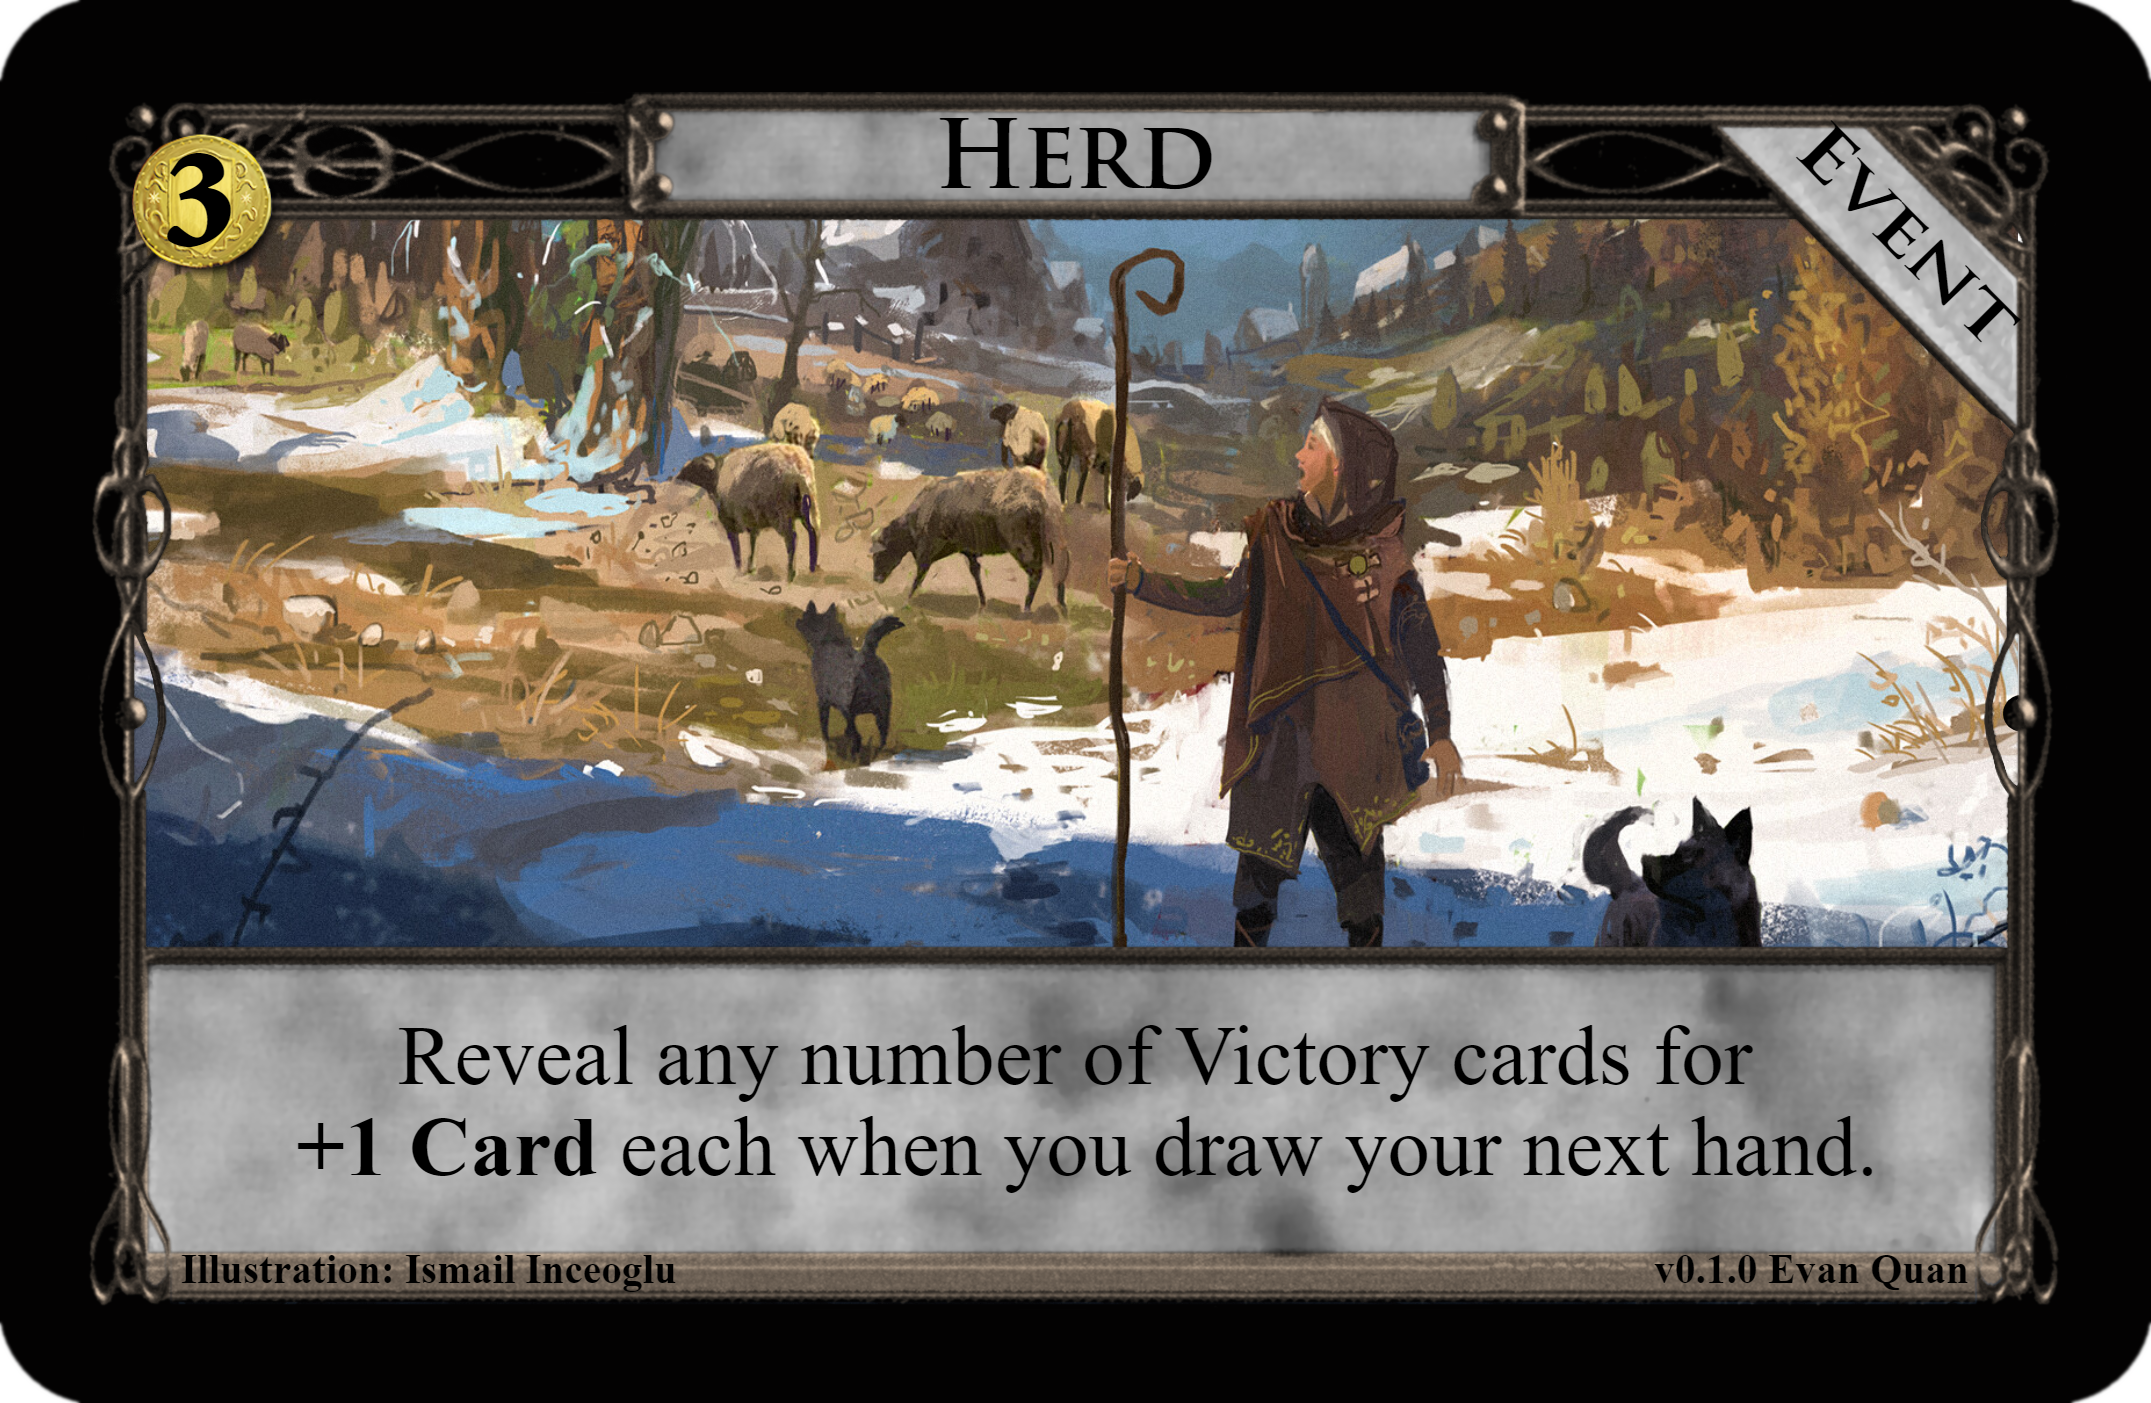
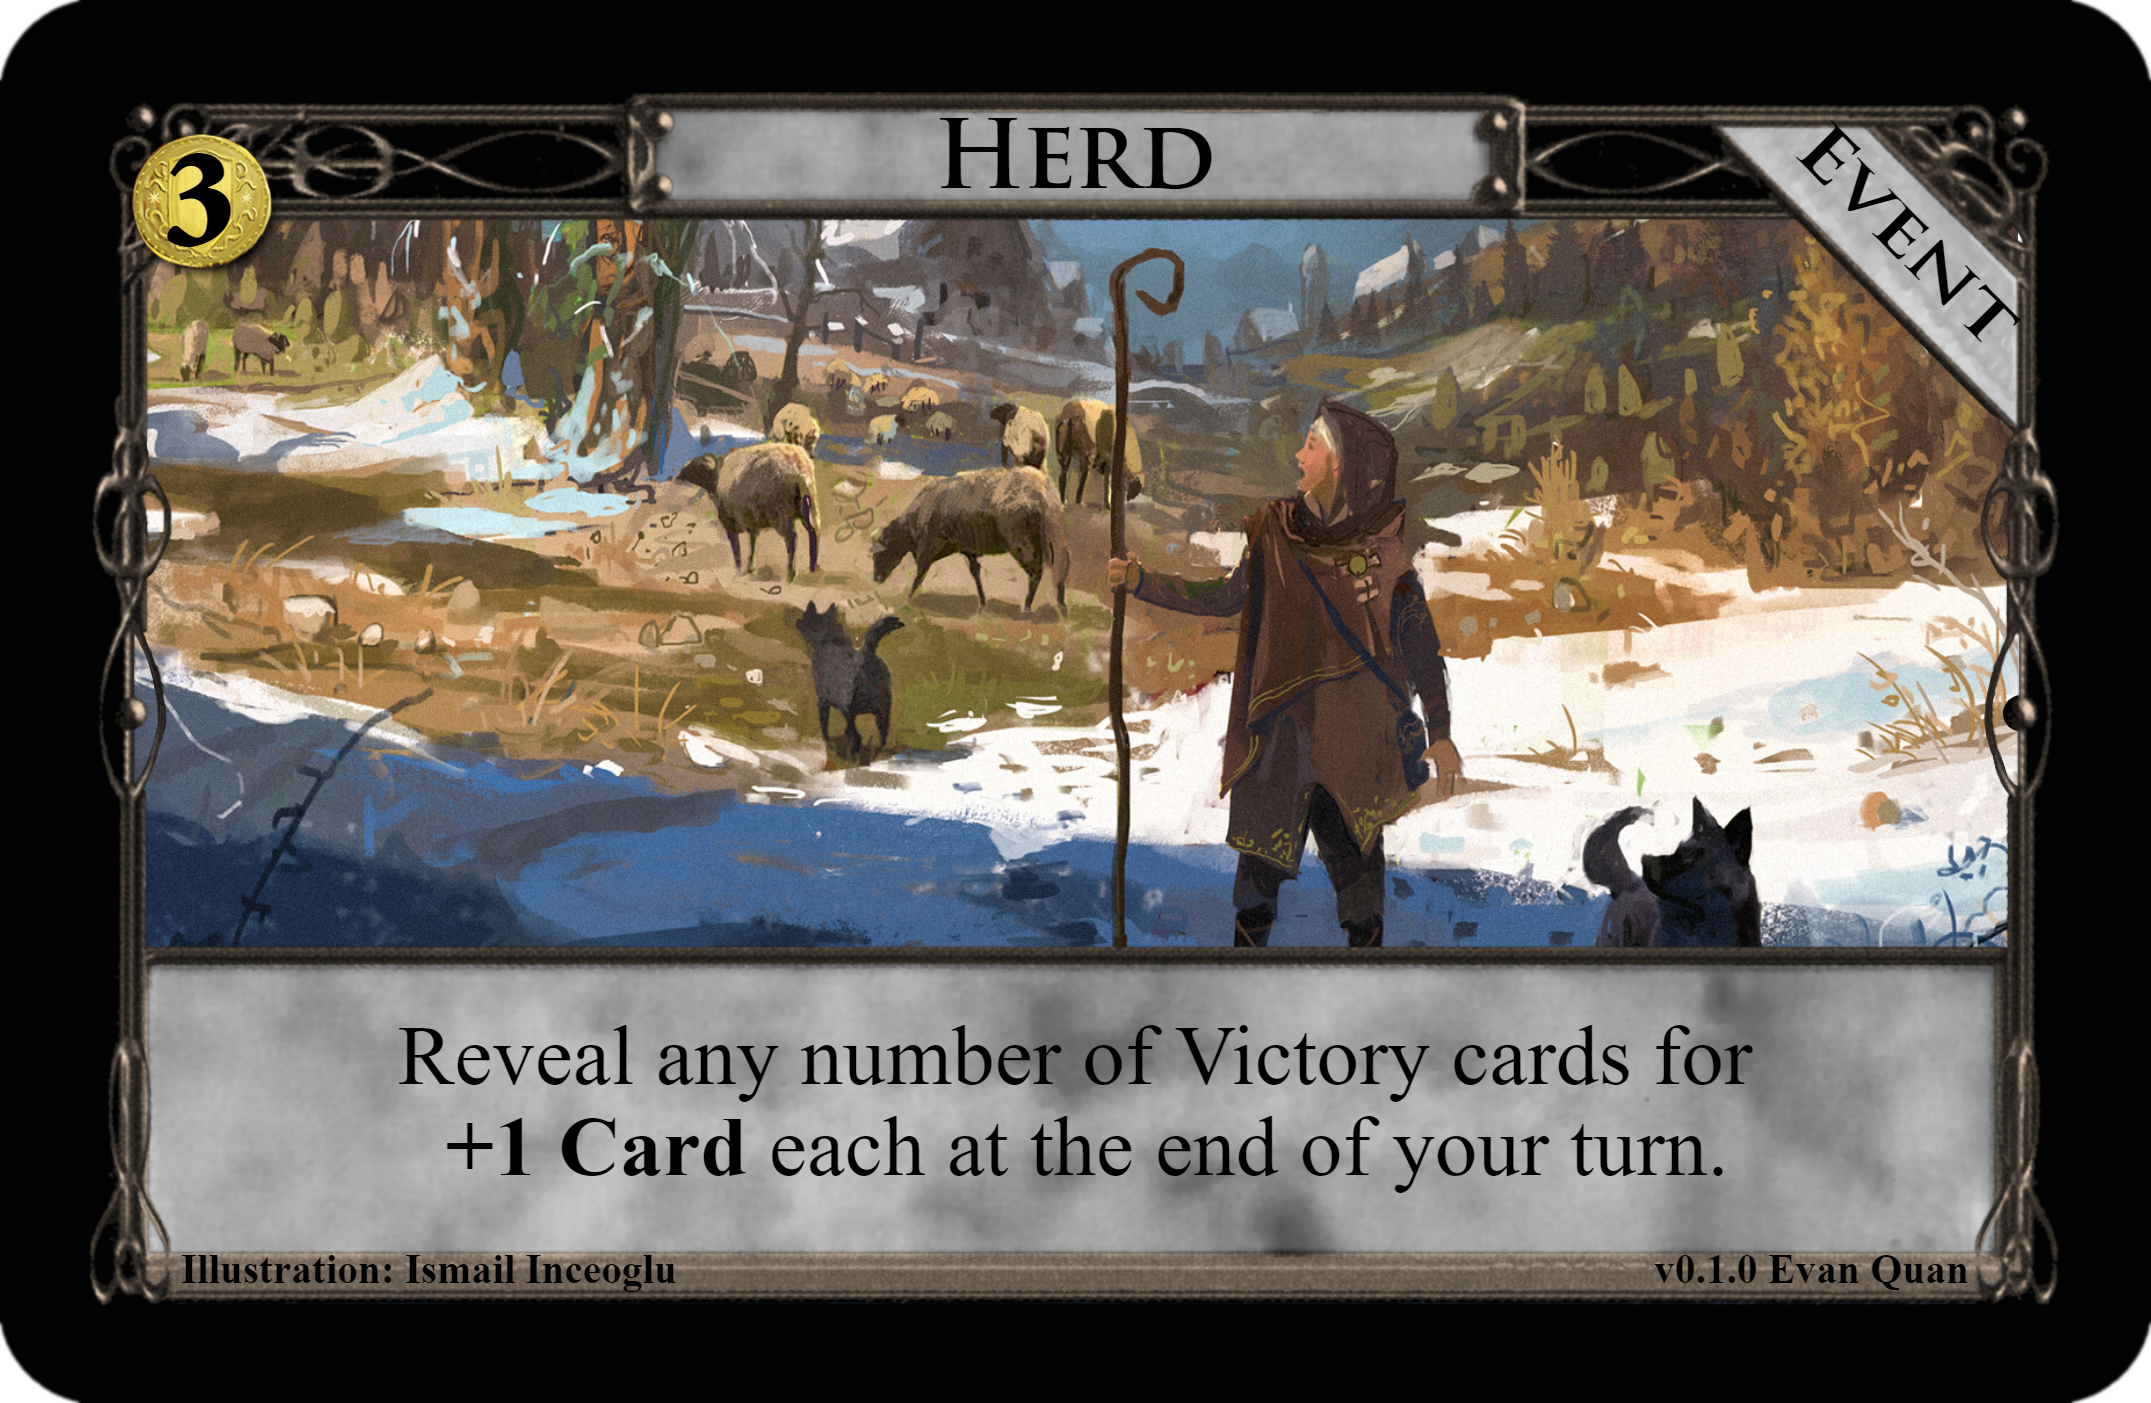
Update phrasing

Changed region(s): [[0.1246, 0.7969, 0.8722, 0.8582]]

diff --git a/Event/Herd.md b/Event/Herd.md
@@ -19,6 +19,6 @@
 ![v0.1.0][^v0.1.0]
 
 [^v0.1.0]: /Event/Images/Herd_v0.1.0.png
-[^Card]: https://shardofhonor.github.io/dominion-card-generator/?title=Herd&description=Reveal%20any%20number%20of%20Victory%20cards%20for%20%2B1%20Card%20each%20when%20you%20draw%20your%20next%20hand.&type=Event&credit=Illustration%3A%20Ismail%20Inceoglu&creator=v0.1.0%20Evan%20Quan&price=%243&preview=&type2=&color2split=1&boldkeys=&picture-x=0&picture-y=-0.41&picture-zoom=1&picture=https%3A%2F%2Fcdnb.artstation.com%2Fp%2Fassets%2Fimages%2Fimages%2F024%2F535%2F263%2Flarge%2Fismail-inceoglu-the-boy-who-cried-wolf.jpg%3F1582731336&expansion=&custom-icon=&color0=0&color1=0&size=1
+[^Card]: https://shardofhonor.github.io/dominion-card-generator/?title=Herd&description=Reveal%20any%20number%20of%20Victory%20cards%20for%20%2B1%20Card%20each%20at%20the%20end%20of%20your%20turn.&type=Event&credit=Illustration%3A%20Ismail%20Inceoglu&creator=v0.1.0%20Evan%20Quan&price=%243&preview=&type2=&color2split=1&boldkeys=&picture-x=0&picture-y=-0.41&picture-zoom=1&picture=https%3A%2F%2Fcdnb.artstation.com%2Fp%2Fassets%2Fimages%2Fimages%2F024%2F535%2F263%2Flarge%2Fismail-inceoglu-the-boy-who-cried-wolf.jpg%3F1582731336&expansion=&custom-icon=&color0=0&color1=0&size=1
 [^Illustrator]: https://www.artstation.com/seventeenth
 [^Illustration]: https://www.artstation.com/artwork/DxeKeG
